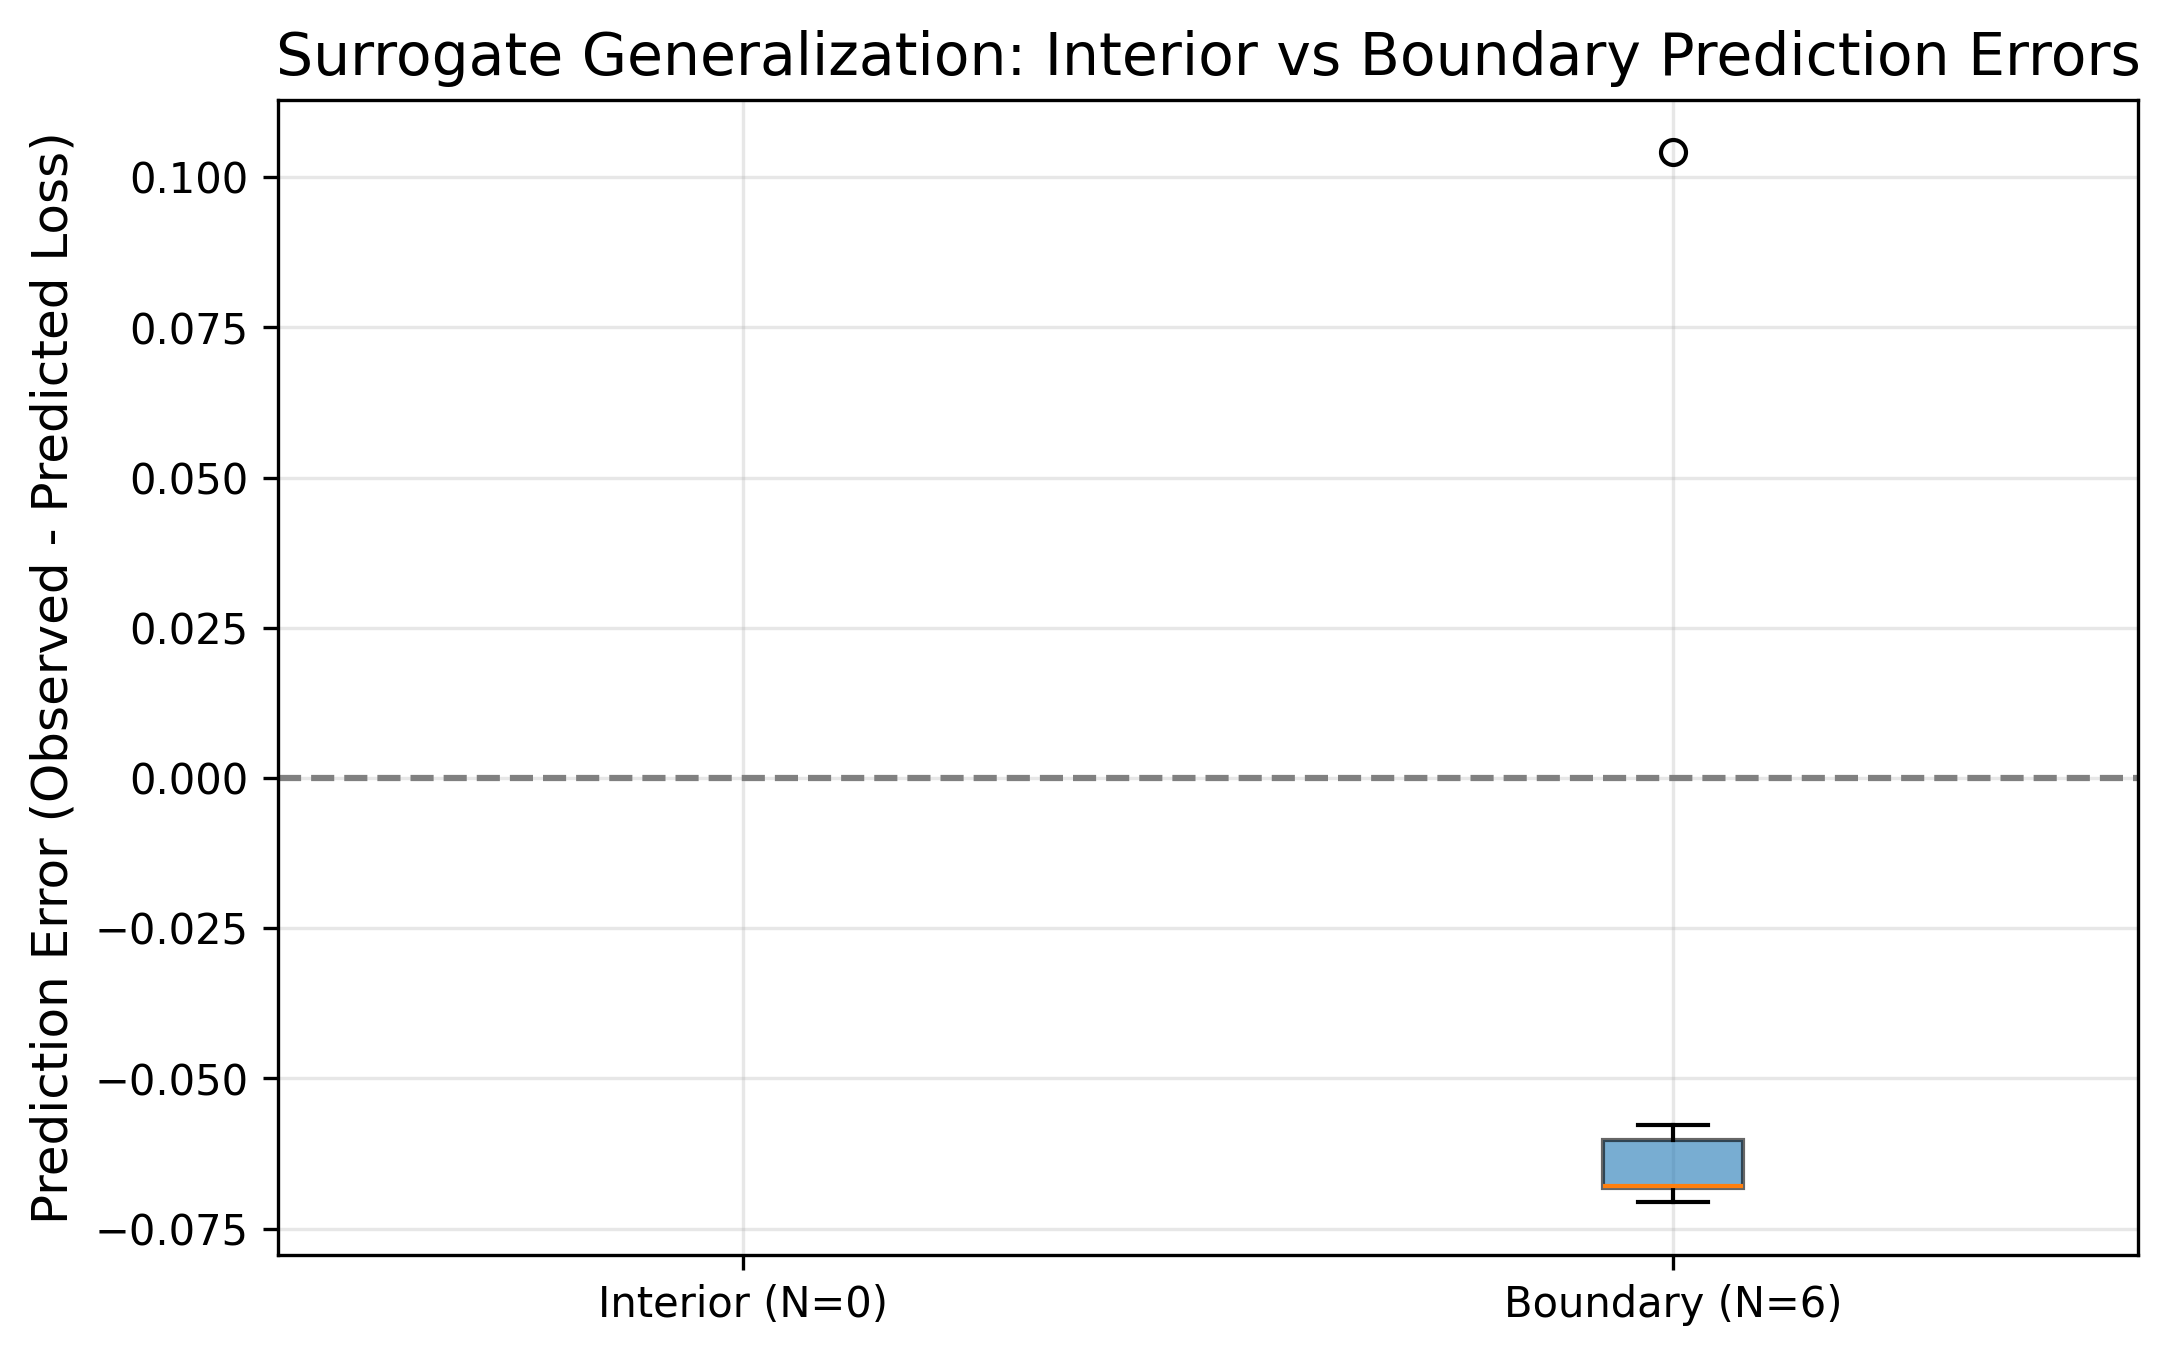
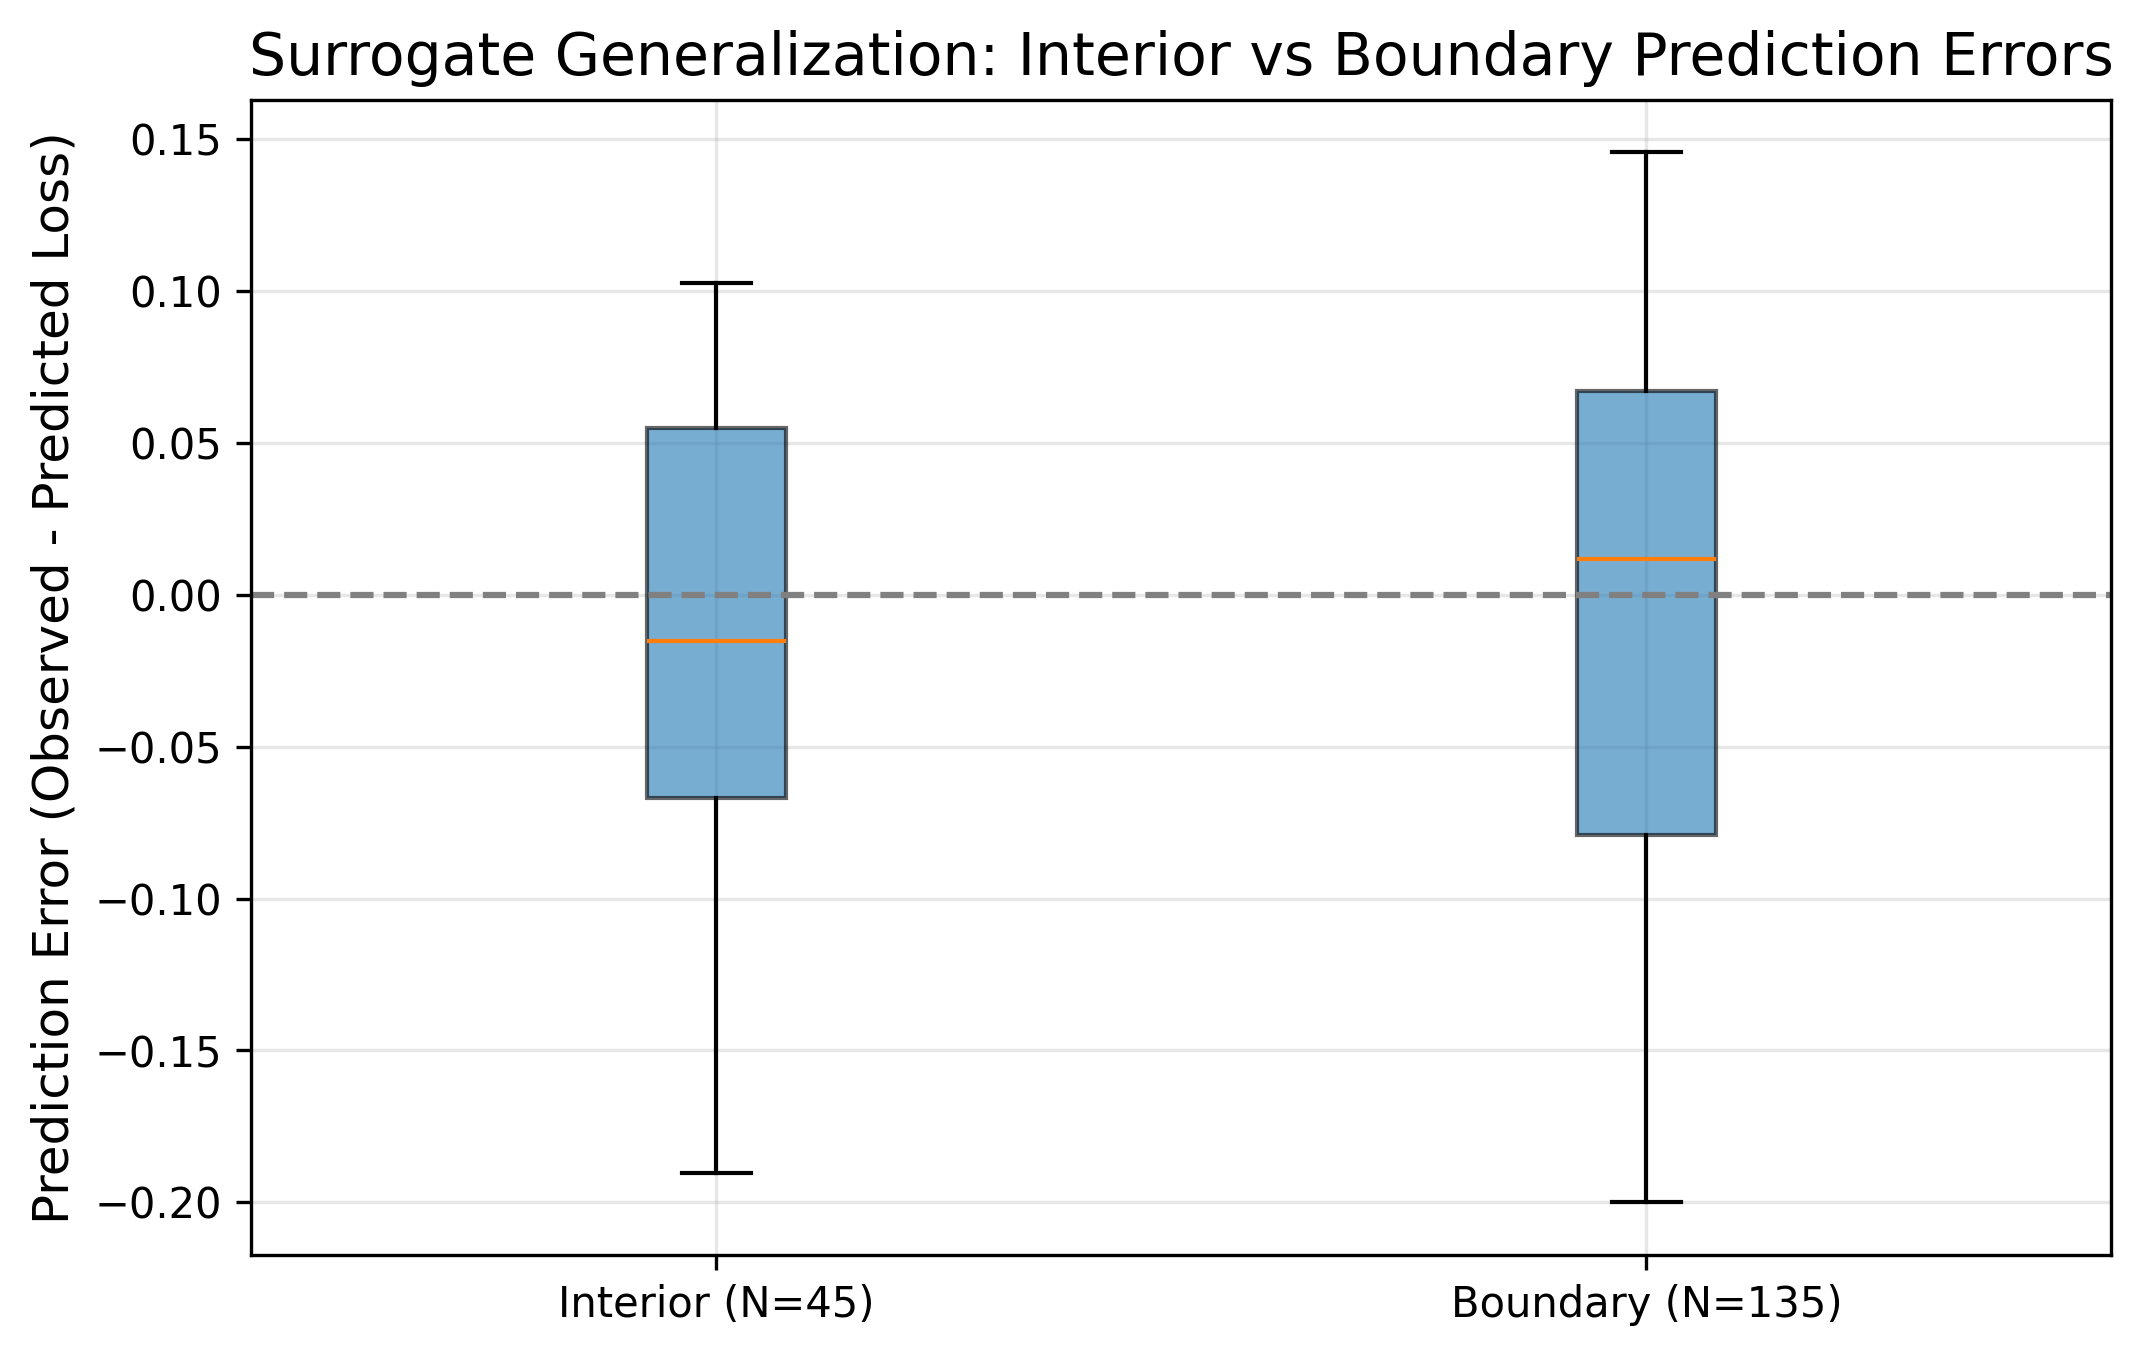
feat(findings): update Phase B findings with full IMDb empirical benchmark results from RTX 5080 run

diff --git a/findings/phase_b/tables/anova_table_latency_us.tex b/findings/phase_b/tables/anova_table_latency_us.tex
@@ -3,14 +3,14 @@
 \toprule
 Source & DF & Sum of Squares & Mean Square & F Value & p-value \\
 \midrule
-Model & 15 & 50030.014534 & 3335.334302 & 0.990 & 4.8202e-01 \\
-  Main Effects & 4 & 13126.801231 & 3281.700308 & 0.974 & 4.3162e-01 \\
-  2-Factor Interactions & 6 & 17335.985428 & 2889.330905 & 0.857 & 5.3358e-01 \\
-  Curvature (Quadratic) & 4 & 20808.486103 & 5202.121526 & 1.543 & 2.0631e-01 \\
-  Blocks & 1 & 478.272667 & 478.272667 & 0.142 & 7.0821e-01 \\
-Residual & 44 & 148304.729466 & 3370.562033 & - & - \\
-  Lack of Fit & 38 & 142685.821966 & 3754.890052 & 4.010 & 4.3442e-02 \\
-  Pure Error & 6 & 5618.907500 & 936.484583 & - & - \\
-Total & 59 & 198334.744000 & 3361.605831 & - & - \\
+Model & 18 & 3980.933474 & 221.162971 & 1.462 & 1.1601e-01 \\
+  Main Effects & 4 & 1311.215014 & 327.803753 & 2.166 & 7.6801e-02 \\
+  2-Factor Interactions & 6 & 1711.075088 & 285.179181 & 1.885 & 8.8790e-02 \\
+  Curvature (Quadratic) & 4 & 213.545153 & 53.386288 & 0.353 & 8.4165e-01 \\
+  Blocks & 4 & 781.008571 & 195.252143 & 1.290 & 2.7761e-01 \\
+Residual & 121 & 18309.377151 & 151.317167 & - & - \\
+  Lack of Fit & 116 & 18306.144651 & 157.811592 & 244.101 & 3.2728e-06 \\
+  Pure Error & 5 & 3.232500 & 0.646500 & - & - \\
+Total & 139 & 22290.310625 & 160.361947 & - & - \\
 \bottomrule
 \end{tabular}

diff --git a/findings/phase_b/tables/anova_vs_shap_agreement.tex b/findings/phase_b/tables/anova_vs_shap_agreement.tex
@@ -2,11 +2,11 @@
 \toprule
 Method & Response & Factor Spearman Rho & Kendall Tau & Interaction Correlation & Top Factor (ANOVA) & Top Factor (SHAP) & Top Interaction (ANOVA) & Top Interaction (SHAP) \\
 \midrule
-static_doe:val_loss & 0.8000 & 0.6667 & 0.6991 & x3 & x1 & ['x1', 'x4'] & ['x1', 'x3'] \\
-static_doe:latency_us & 0.8000 & 0.6667 & 0.1595 & x3 & x1 & ['x1', 'x2'] & ['x1', 'x3'] \\
-doe:val_loss & 0.8000 & 0.6667 & 0.6974 & x3 & x1 & ['x1', 'x4'] & ['x1', 'x3'] \\
-doe:latency_us & 0.4000 & 0.3333 & 0.4738 & x3 & x2 & ['x2', 'x4'] & ['x2', 'x3'] \\
-tpe:val_loss & 0.8000 & 0.6667 & 0.6919 & x3 & x3 & ['x1', 'x3'] & ['x1', 'x3'] \\
-tpe:latency_us & 0.4000 & 0.3333 & -0.4589 & x4 & x4 & ['x2', 'x3'] & ['x1', 'x4'] \\
+static_doe:val_loss & 0.8000 & 0.6667 & 0.9305 & x4 & x4 & ['x3', 'x4'] & ['x3', 'x4'] \\
+static_doe:latency_us & 0.8000 & 0.6667 & 0.7232 & x1 & x3 & ['x3', 'x4'] & ['x1', 'x3'] \\
+doe:val_loss & 0.8000 & 0.6667 & 0.9172 & x4 & x4 & ['x3', 'x4'] & ['x3', 'x4'] \\
+doe:latency_us & 0.8000 & 0.6667 & 0.7677 & x2 & x2 & ['x1', 'x3'] & ['x1', 'x2'] \\
+tpe:val_loss & 0.4000 & 0.3333 & -0.6595 & x4 & x4 & ['x2', 'x3'] & ['x2', 'x4'] \\
+tpe:latency_us & -0.2000 & 0.0000 & -0.2364 & x2 & x4 & ['x1', 'x2'] & ['x3', 'x4'] \\
 \bottomrule
 \end{tabular}

diff --git a/findings/phase_b/tables/anova_table_val_loss.tex b/findings/phase_b/tables/anova_table_val_loss.tex
@@ -3,14 +3,14 @@
 \toprule
 Source & DF & Sum of Squares & Mean Square & F Value & p-value \\
 \midrule
-Model & 15 & 0.471523 & 0.031435 & 5.392 & 5.8557e-06 \\
-  Main Effects & 4 & 0.344431 & 0.086108 & 14.770 & 1.0002e-07 \\
-  2-Factor Interactions & 6 & 0.015252 & 0.002542 & 0.436 & 8.5078e-01 \\
-  Curvature (Quadratic) & 4 & 0.092847 & 0.023212 & 3.981 & 7.6551e-03 \\
-  Blocks & 1 & 0.022037 & 0.022037 & 3.780 & 5.8280e-02 \\
-Residual & 44 & 0.256521 & 0.005830 & - & - \\
-  Lack of Fit & 38 & 0.219798 & 0.005784 & 0.945 & 5.9570e-01 \\
-  Pure Error & 6 & 0.036724 & 0.006121 & - & - \\
-Total & 59 & 0.728044 & 0.012340 & - & - \\
+Model & 18 & 0.277671 & 0.015426 & 2.945 & 2.3128e-04 \\
+  Main Effects & 4 & 0.143060 & 0.035765 & 6.827 & 5.4601e-05 \\
+  2-Factor Interactions & 6 & 0.079911 & 0.013319 & 2.542 & 2.3605e-02 \\
+  Curvature (Quadratic) & 4 & 0.006865 & 0.001716 & 0.328 & 8.5897e-01 \\
+  Blocks & 4 & 0.041390 & 0.010348 & 1.975 & 1.0254e-01 \\
+Residual & 121 & 0.633881 & 0.005239 & - & - \\
+  Lack of Fit & 116 & 0.599747 & 0.005170 & 0.757 & 7.3971e-01 \\
+  Pure Error & 5 & 0.034134 & 0.006827 & - & - \\
+Total & 139 & 0.911552 & 0.006558 & - & - \\
 \bottomrule
 \end{tabular}

diff --git a/findings/phase_b/tables/confirmation_predictions.tex b/findings/phase_b/tables/confirmation_predictions.tex
@@ -2,11 +2,11 @@
 \toprule
 Method & Target & N & Prediction RMSE & Observed - Predicted Bias & PI Coverage (%) & Boundary N & Boundary Bias \\
 \midrule
-static_doe:val_loss & 6 & 0.07553 & -0.03907 & 100.0% & 6 & -0.03907 \\
-static_doe:latency_us & 6 & 51.07240 & 37.07106 & 100.0% & 6 & 37.07106 \\
-doe:val_loss & 6 & 0.07421 & -0.03804 & 100.0% & 6 & -0.03804 \\
-doe:latency_us & 6 & 49.01773 & -18.83320 & 100.0% & 6 & -18.83320 \\
-tpe:val_loss & 6 & 0.13728 & -0.10887 & 83.3% & 6 & -0.10887 \\
-tpe:latency_us & 6 & 63.36913 & -57.87035 & 100.0% & 6 & -57.87035 \\
+static_doe:val_loss & 180 & 0.07836 & -0.00826 & 95.6% & 135 & -0.00735 \\
+static_doe:latency_us & 180 & 3.10239 & 0.13094 & 95.6% & 135 & 0.41389 \\
+doe:val_loss & 180 & 0.07936 & -0.00340 & 97.2% & 135 & -0.00168 \\
+doe:latency_us & 180 & 4.17348 & -0.31206 & 93.3% & 135 & -0.11582 \\
+tpe:val_loss & 180 & 0.09399 & -0.01664 & 97.8% & 135 & -0.02484 \\
+tpe:latency_us & 180 & 5.95655 & 1.72254 & 92.8% & 135 & 1.49552 \\
 \bottomrule
 \end{tabular}

diff --git a/findings/phase_b/values/macros.tex b/findings/phase_b/values/macros.tex
@@ -1,8 +1,8 @@
-\newcommand{\numTextTrees}{5}
-\newcommand{\numTextBlocks}{2}
-\newcommand{\numTextRepeats}{1}
-\newcommand{\numTextLatencyThreshold}{145.0}
-\newcommand{\numTextTotalFits}{201}
-\newcommand{\numTextStaticdoeHVMean}{36.5792}
-\newcommand{\numTextDoeHVMean}{37.1054}
-\newcommand{\numTextTpeHVMean}{43.3792}
+\newcommand{\numTextTrees}{100}
+\newcommand{\numTextBlocks}{5}
+\newcommand{\numTextRepeats}{3}
+\newcommand{\numTextLatencyThreshold}{151.9}
+\newcommand{\numTextTotalFits}{1809}
+\newcommand{\numTextStaticdoeHVMean}{99.4092}
+\newcommand{\numTextDoeHVMean}{99.1791}
+\newcommand{\numTextTpeHVMean}{89.5891}

diff --git a/findings/phase_b/tables/benchmark_comparison.tex b/findings/phase_b/tables/benchmark_comparison.tex
@@ -2,8 +2,8 @@
 \toprule
 Method & Search Fits & Mean Hypervolume & Best Validation Loss & Feasibility (%) \\
 \midrule
-STATIC_DOE & 60 & 36.5792 +/- 0.0000 & 0.0631 & 0.0% \\
-DOE & 60 & 37.1054 +/- 0.0000 & 0.0631 & 0.0% \\
-TPE & 60 & 43.3792 +/- 0.0000 & 0.0633 & 0.0% \\
+STATIC_DOE & 420 & 99.4092 +/- 0.3097 & 0.4652 & 96.0% \\
+DOE & 420 & 99.1791 +/- 0.3665 & 0.4652 & 97.5% \\
+TPE & 420 & 89.5891 +/- 3.3381 & 0.5193 & 94.0% \\
 \bottomrule
 \end{tabular}

diff --git a/findings/phase_b/README.md b/findings/phase_b/README.md
@@ -1,6 +1,6 @@
 # Experimental Findings & Deliverables
 
-Generated on 2026-10-28T02:59:22.694714+00:00 from `smoke_study`.
+Generated on 2026-10-28T11:44:00.850938+00:00 from `imdb`.
 
 ## Contents:
 - `tables/`:
